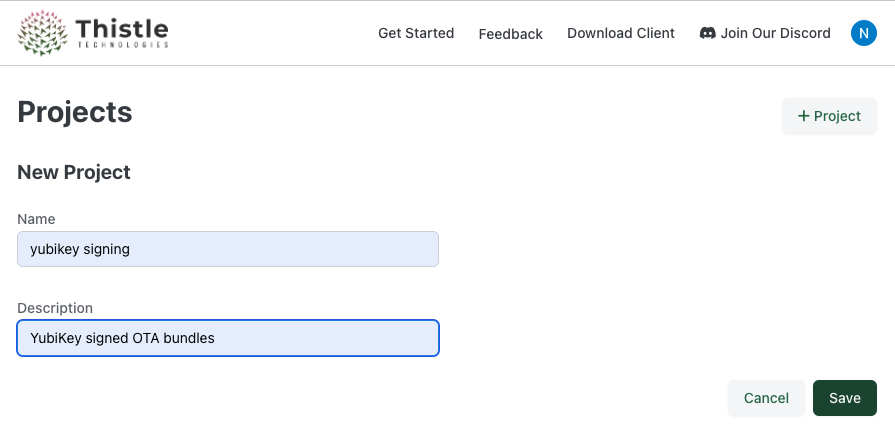
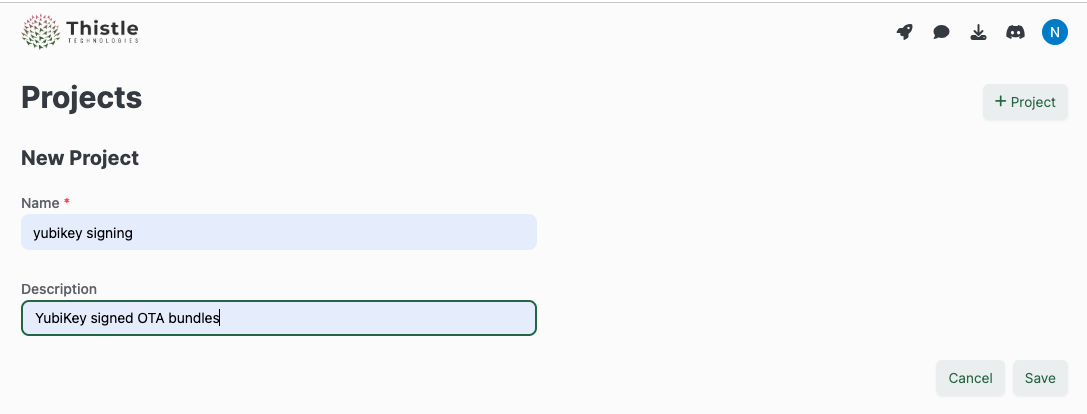
Hermit upgrade trh and tuc to v0.1.10 (#7)
* Hermit upgrade trh and tuc to v0.1.10

We use the refactored, more compact HCLs for trh and tuc.
Hermit upgrade tuc and trh to v0.1.10.

* Update YubiKey OTA signing tutorial

Update the tutorial document and artwork to match trh/tuc release
v0.1.10.

diff --git a/README.md b/README.md
@@ -214,7 +214,7 @@ trh-y🐚 $ export THISTLE_TOKEN=$(cat)
 # Prepare a local OTA bundle
 trh-y🐚 $ mkdir -p rel/tmp
 trh-y🐚 $ echo "This is a test" > rel/tmp/test.txt
-trh-y🐚 $ trh --external-sign "trh-y/thistle-bin/sign-y" prepare -t=./rel
+trh-y🐚 $ trh --external-sign "trh-y/thistle-bin/sign-y" prepare -t=./rel -f=/
 Read manifest at "./manifest.json"
 Processed file "./rel/tmp/test.txt"
 Executing external signing command
@@ -225,17 +225,24 @@ Manifest amended successfully
 # Release OTA bundle to Thistle backend
 trh-y🐚 $ trh --external-sign "trh-y/thistle-bin/sign-y" release
 Read manifest at "./manifest.json"
+Executing external signing command
+=====
+Signing /var/folders/5k/pbgrbj194573msk705r200sc0000gn/T/tmp.SSNRixzn with YubiKey. Touch your YubiKey if it blinks.
+=====
+Prepared backup release
 Uploaded asset test.txt
 Executing external signing command
 =====
-Signing /var/folders/5k/pbgrbj194573msk705r200sc0000gn/T/tmp.47swZ1lw with YubiKey. Touch your YubiKey if it blinks.
+Signing /var/folders/5k/pbgrbj194573msk705r200sc0000gn/T/tmp.Km3MGeJT with YubiKey. Touch your YubiKey if it blinks.
 =====
+Backup manifest uploaded successfully
 Manifest uploaded successfully
+Local compressed artifacts removed
 ```
 
 To update an existing release, re-run `trh prepare` and `trh release` commands
 with the `--external-sign` argument exactly as above, and as described
-[here](https://docs.thistle.tech/getting_started/file#update-an-existing-release),
+[here](https://docs.thistle.tech/get_started/file#update-an-existing-release),
 to get the manifest updated and signed, and OTA bundle uploaded to Thistle
 backend.
 
@@ -243,10 +250,15 @@ backend.
 
 On a device running `tuc`, run the following command to test the released OTA
 bundle, using `config.json`. This is similar to what is described
-[here](https://docs.thistle.tech/getting_started/file#upload-and-test-deployed-release).
+[here](https://docs.thistle.tech/get_started/file#upload-and-test-deployed-release).
 
 ```bash
 trh-y🐚 $ tuc --log-level=info -c config.json
+...
+!! setting update status to Pass
+.. signature verified with public key #0 type pivit
+.. reported data to server
+~~ next check in 3600s
 ```
 
 ## Synopsis of trh-y Commands
